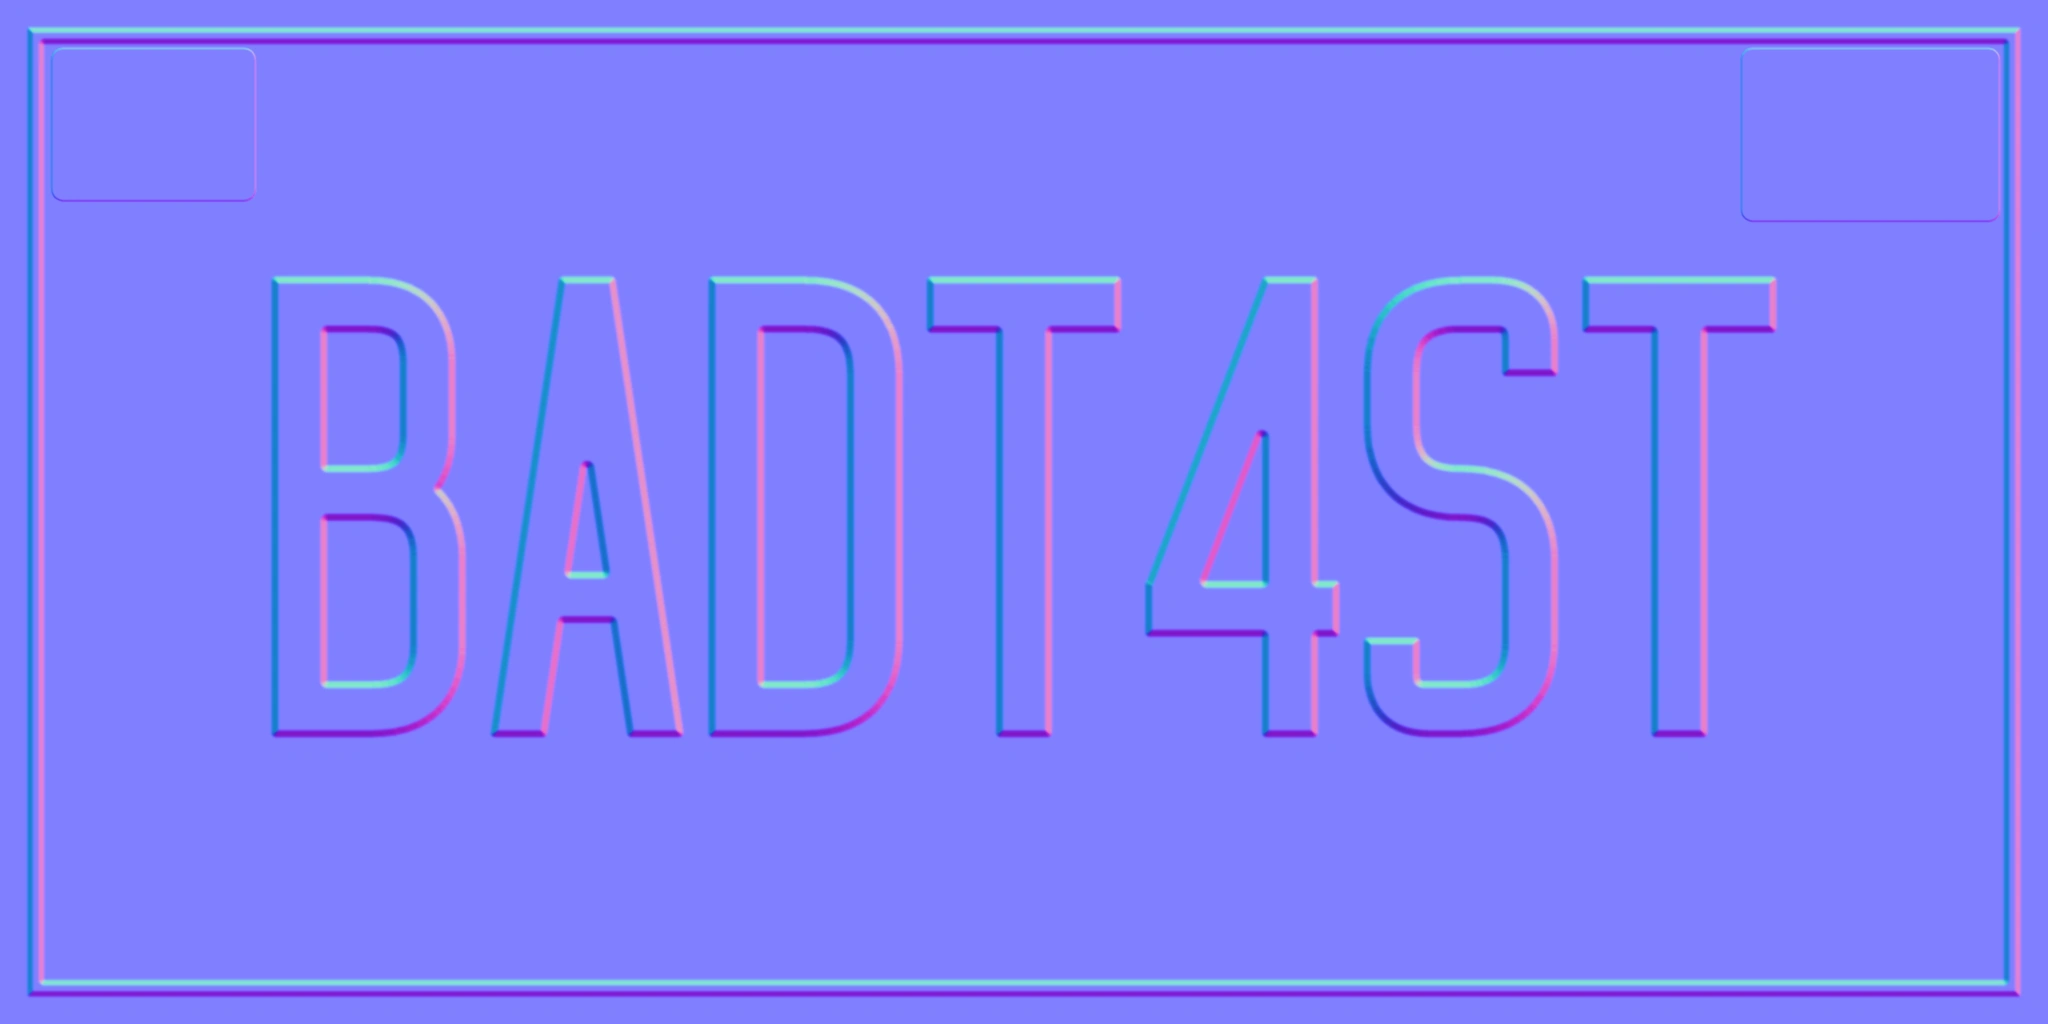
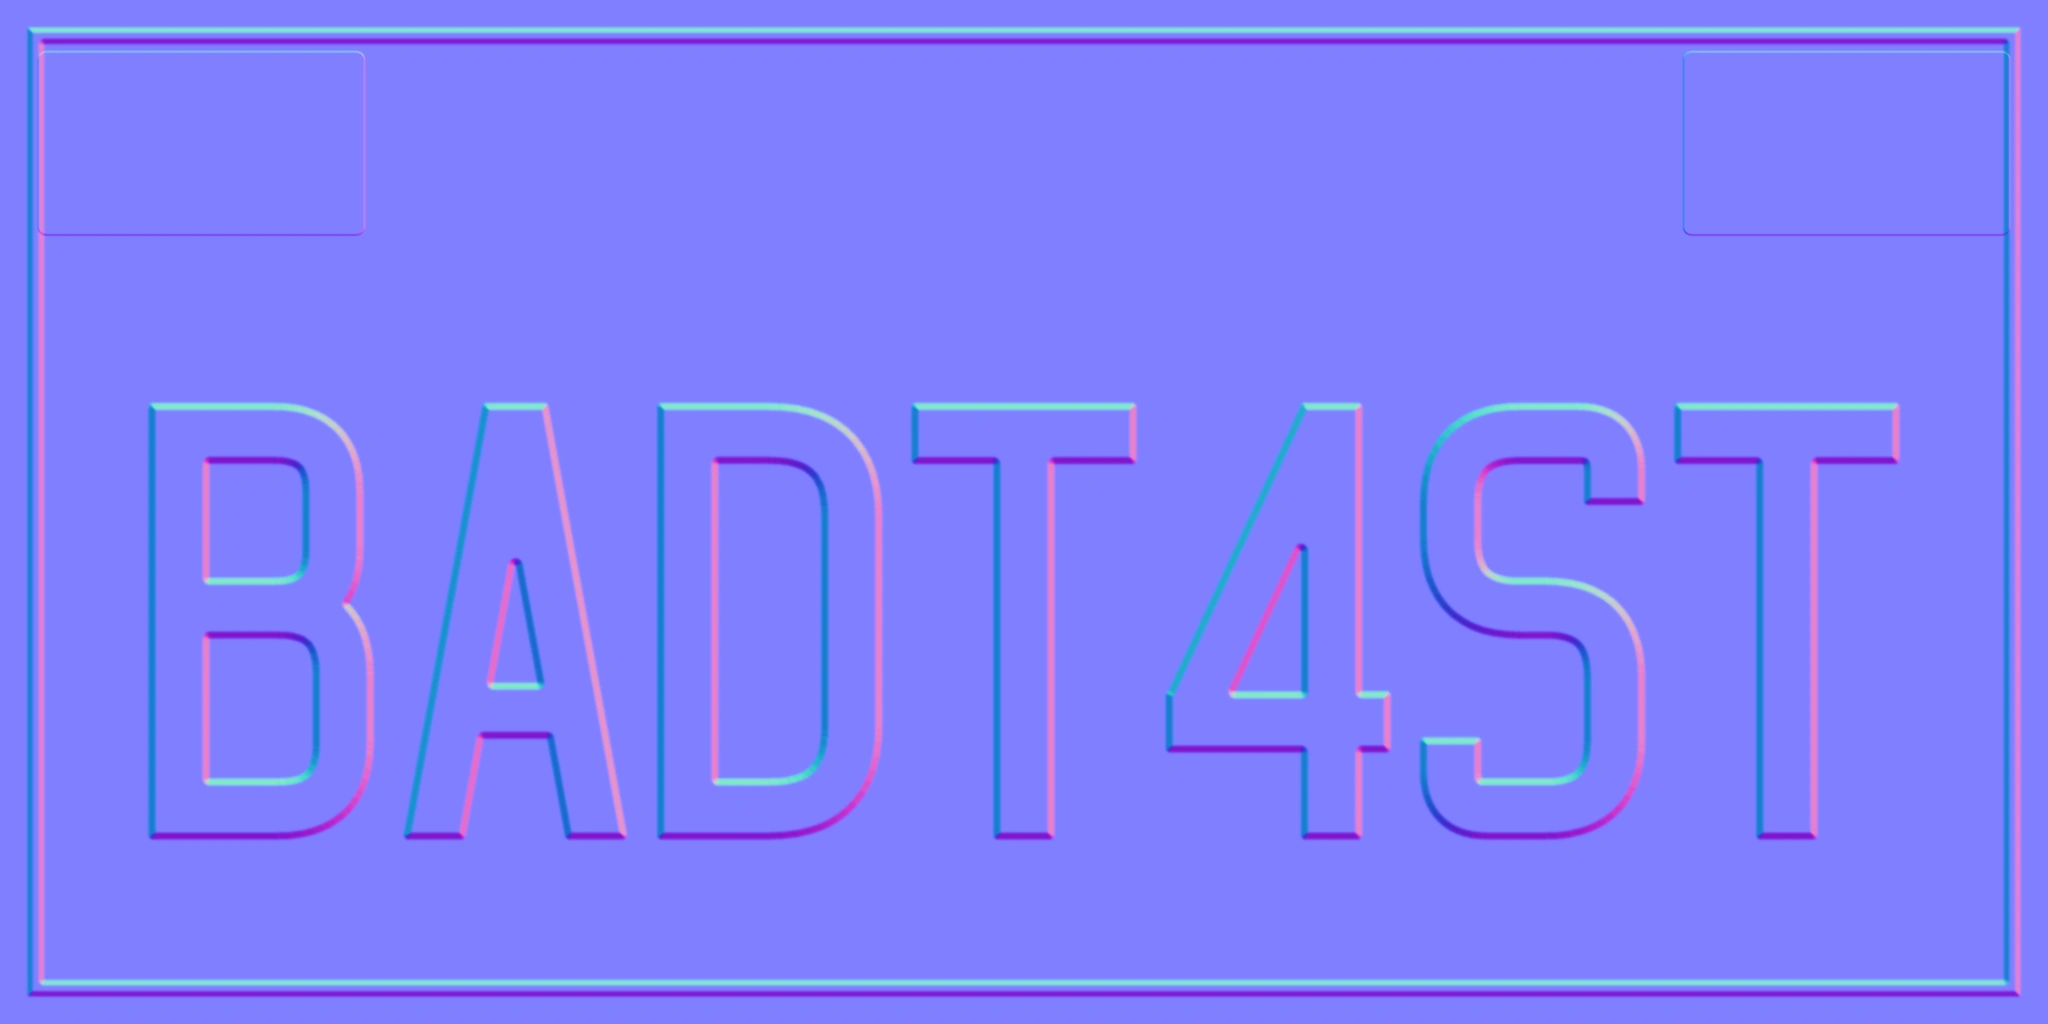
ca_plate: real-plate proportions, CA-style month/year stickers, letter-spaced dmv.ca.gov
Claude-Session: https://claude.ai/code/session_01BWKgieJc9mECqSgZjpi7zL

diff --git a/plate-frames/tools/ca_plate.py b/plate-frames/tools/ca_plate.py
@@ -39,25 +39,28 @@ SHEET = (244, 245, 247)
 STICKER = (236, 178, 32)  # this run's registration colour
 INK = (24, 24, 28)
 
-# Layout, inches from the top-left corner of the plate.
-GLYPH_H = 2.70
-GLYPH_W = 1.14
-STROKE = 0.33
-GAP = 0.14
-SERIAL_TOP = 1.62
+# Layout, inches from the top-left corner of the plate, measured off a photo
+# of a real plate (7MIA732): the serial runs almost edge to edge, the script
+# spans the gap between the top mounting slots.
+GLYPH_H = 2.56
+GLYPH_W = 1.32
+STROKE = 0.36
+GAP = 0.17
+SERIAL_TOP = 2.36
 # "California" is traced from a photo of the real plate's hand-lettered
 # script (fonts/ca-script-trace.png), not set in a font. Box in inches.
-SCRIPT_BOX = (3.80, 0.30, 8.56, 1.60)
-DMV_BASELINE = 5.66
-DMV_HEIGHT = 0.30  # cap/x-height-ish box
+SCRIPT_BOX = (2.85, 0.52, 9.25, 2.28)
+DMV_BOX = (3.45, 5.10, 8.55, 5.60)    # letter-spaced, ascender top to baseline
 RIM_INSET = 0.16
 RIM_WIDTH = 0.10
 SLOTS = [(2.5, 0.53), (9.5, 0.53), (2.5, 5.28), (9.5, 5.28)]  # 7 in x 4.75 in pattern
 SLOT_W, SLOT_H = 0.55, 0.30
 # Registration stickers at real size: month top-left, year top-right (CA rear
 # plate). Frames with a wide top bar partly cover them, as on a real car.
-MONTH_BOX = (0.30, 0.28, 1.50, 1.18)
-YEAR_BOX = (10.20, 0.28, 11.72, 1.30)
+MONTH_BOX = (0.22, 0.30, 2.14, 1.38)
+YEAR_BOX = (9.86, 0.30, 11.78, 1.38)
+MONTH_BG, MONTH_INK = (246, 247, 244), (48, 96, 186)    # white vinyl, blue month
+YEAR_BG, YEAR_INK = (92, 205, 238), (18, 18, 20)        # 2019 run: light blue, black print
 FONTS = os.path.join(HERE, "fonts")
 DIGITS = os.path.join(FONTS, "BigShoulders-Bold.ttf")
 SANS = "/usr/share/fonts/truetype/liberation/LiberationSans-Bold.ttf"
@@ -172,6 +175,73 @@ def rounded_box(x0, y0, x1, y1, r):
     return box(x0 + r, y0 + r, x1 - r, y1 - r).buffer(r, resolution=16)
 
 
+def box_text(text, font, box, ss=4):
+    """Mask of text squeezed/stretched to fill a box (inches) exactly: condensed type without a condensed font."""
+    x0, y0, x1, y1 = box
+    f = ImageFont.truetype(font, 400)
+    l, t, r, b = f.getbbox(text)
+    im = Image.new("L", (r - l + 8, b - t + 8), 0)
+    ImageDraw.Draw(im).text((4 - l, 4 - t), text, font=f, fill=255)
+    im = im.crop(im.getbbox())
+    w, h = round((x1 - x0) * S), round((y1 - y0) * S)
+    out = Image.new("L", (PX, PX // 2), 0)
+    out.paste(im.resize((w, h), Image.LANCZOS), (round(x0 * S), round(y0 * S)))
+    return np.asarray(out, np.float32) / 255
+
+
+def spaced_text(text, font, box, squeeze=1.0):
+    """Letter-spaced line: glyphs at their natural shape (optionally narrowed), spread to span the box."""
+    x0, y0, x1, y1 = box
+    f = ImageFont.truetype(font, 400)
+    asc = f.getbbox("dh")[1]; base = f.getmetrics()[0]
+    scale = (y1 - y0) * S / (base - asc)
+    widths = [(f.getbbox(c)[2] - f.getbbox(c)[0]) * scale * squeeze for c in text]
+    gap = ((x1 - x0) * S - sum(widths)) / (len(text) - 1)
+    out = np.zeros((PX // 2, PX), np.float32); x = x0 * S
+    for c, w in zip(text, widths):
+        l, t, r, b = f.getbbox(c)
+        im = Image.new("L", (r - l + 4, base - asc + 4 + max(0, b - base)), 0)
+        ImageDraw.Draw(im).text((2 - l, 2 - asc), c, font=f, fill=255)
+        hh = round(im.size[1] * scale); im = im.resize((max(1, round(w)), hh), Image.LANCZOS)
+        px, py = round(x), round(y0 * S - 2 * scale)
+        a = np.asarray(im, np.float32) / 255
+        out[py:py + a.shape[0], px:px + a.shape[1]] = np.maximum(out[py:py + a.shape[0], px:px + a.shape[1]], a[:PX // 2 - py, :PX - px])
+        x += w + gap
+    return out
+
+
+def _t(text, font, size_in, cx_in, base_in, max_w_in=None):
+    return np.asarray(text_mask(text, font, size_in * S, cx_in * S, base_in * S,
+                                max_w=max_w_in * S if max_w_in else None), np.float32) / 255
+
+
+def month_sticker(rect, month):
+    """CA month sticker: white with the month in heavy blue capitals filling most of it."""
+    x0, y0, x1, y1 = rect; w, h = x1 - x0, y1 - y0
+    ink = box_text(month, SANS, (x0 + w * 0.08, y0 + h * 0.20, x1 - w * 0.08, y1 - h * 0.20))
+    return rounded_box(x0, y0, x1, y1, 0.05), ink
+
+
+def year_sticker(rect, year, control="178-839-2899", code="ACTM"):
+    """CA year sticker: light blue, 'CA' stacked at the left, the full year in big condensed black
+    digits, a stacked office code at the right, a faint state seal behind the year and a control
+    number along the bottom."""
+    x0, y0, x1, y1 = rect; w, h = x1 - x0, y1 - y0
+    X = lambda f: x0 + w * f
+    Y = lambda f: y0 + h * f
+    layers = [box_text(str(year), SANS, (X(0.15), Y(0.10), X(0.85), Y(0.63))),
+              box_text(control, SANS, (X(0.04), Y(0.72), X(0.96), Y(0.90)))]
+    for i, ch in enumerate("CA"):
+        layers.append(box_text(ch, SANS, (X(0.035), Y(0.10 + 0.27 * i), X(0.12), Y(0.32 + 0.27 * i))))
+    for i, ch in enumerate(code):
+        layers.append(box_text(ch, SANS, (X(0.885), Y(0.07 + 0.155 * i), X(0.95), Y(0.19 + 0.155 * i))))
+    ink = np.maximum.reduce(layers)
+    yy, xx = np.mgrid[0:PX // 2, 0:PX] / S
+    r = np.hypot(xx - X(0.5), yy - Y(0.37))
+    seal = ((r < h * 0.30) & (r > h * 0.26)) | (r < h * 0.20)
+    return rounded_box(x0, y0, x1, y1, 0.05), ink, seal.astype(np.float32)
+
+
 def sticker(rect, big, small, top_line):
     """A registration sticker: coloured vinyl, rounded corners, a big line of
     black text, a small CA line above it and a tiny control number below."""
@@ -209,14 +279,13 @@ def main(serial="BADT4ST", out=os.path.join(HERE, "..", "assets", "plate"), mont
     sx0, sy0, sx1, sy1 = (round(v * S) for v in SCRIPT_BOX)
     script.paste(Image.open(os.path.join(FONTS, "ca-script-trace.png")).convert("L")
                  .resize((sx1 - sx0, sy1 - sy0), Image.LANCZOS), (sx0, sy0))
-    dmv = text_mask("dmv.ca.gov", SANS,
-                    DMV_HEIGHT * 1.42 * S, PX / 2, DMV_BASELINE * S)
+    dmv = (spaced_text("dmv.ca.gov", SANS, DMV_BOX, squeeze=1.0) * 255).astype(np.uint8)
 
-    month_shape, month_ink = sticker(MONTH_BOX, month.upper()[:3], "6512047", "CA")
-    year_shape, year_ink = sticker(YEAR_BOX, str(year)[-2:], str(year)[-2:] + " 2047351", "CA")
+    month_shape, month_ink = month_sticker(MONTH_BOX, month.upper()[:3])
+    year_shape, year_ink, year_seal = year_sticker(YEAR_BOX, year)
     stickers = unary_union([month_shape, year_shape])
-    sticker_mask = np.asarray(mask_of(stickers), np.float32)[..., None] / 255
-    sticker_ink = np.maximum(month_ink, year_ink)[..., None]
+    month_mask = np.asarray(mask_of(month_shape), np.float32)[..., None] / 255
+    year_mask = np.asarray(mask_of(year_shape), np.float32)[..., None] / 255
 
     # Height: stamped serial and rim (about 1.2 mm), flat screen-printed script,
     # stickers a thin vinyl step on top of the sheeting.
@@ -244,10 +313,13 @@ def main(serial="BADT4ST", out=os.path.join(HERE, "..", "assets", "plate"), mont
     over(BLUE, top)
     over(RED, (np.asarray(script, np.float32) / 255)[..., None])
     over(RED, (np.asarray(dmv, np.float32) / 255)[..., None])
-    # Stickers: vinyl colour with a faint sheen gradient, black print.
-    vinyl = np.asarray(STICKER, np.float32) * (1.04 - 0.08 * (v[..., None] + 0.5))
-    base = base * (1 - sticker_mask) + vinyl * sticker_mask
-    over(INK, sticker_ink * sticker_mask)
+    # Stickers: vinyl colour with a faint sheen, then the print (the seal is a lighter tint of the vinyl).
+    sheen = (1.03 - 0.06 * (v[..., None] + 0.5))
+    base = base * (1 - month_mask) + np.asarray(MONTH_BG, np.float32) * sheen * month_mask
+    base = base * (1 - year_mask) + np.asarray(YEAR_BG, np.float32) * sheen * year_mask
+    over((150, 222, 245), year_seal[..., None] * year_mask * 0.6)
+    over(MONTH_INK, month_ink[..., None] * month_mask)
+    over(YEAR_INK, year_ink[..., None] * year_mask)
     alpha = 255 - np.asarray(slot_mask)
     rgba = np.dstack([np.clip(base, 0, 255).astype(np.uint8), alpha.astype(np.uint8)])
     Image.fromarray(rgba, "RGBA").save(os.path.join(out, "ca-plate.webp"), quality=92, method=6)
